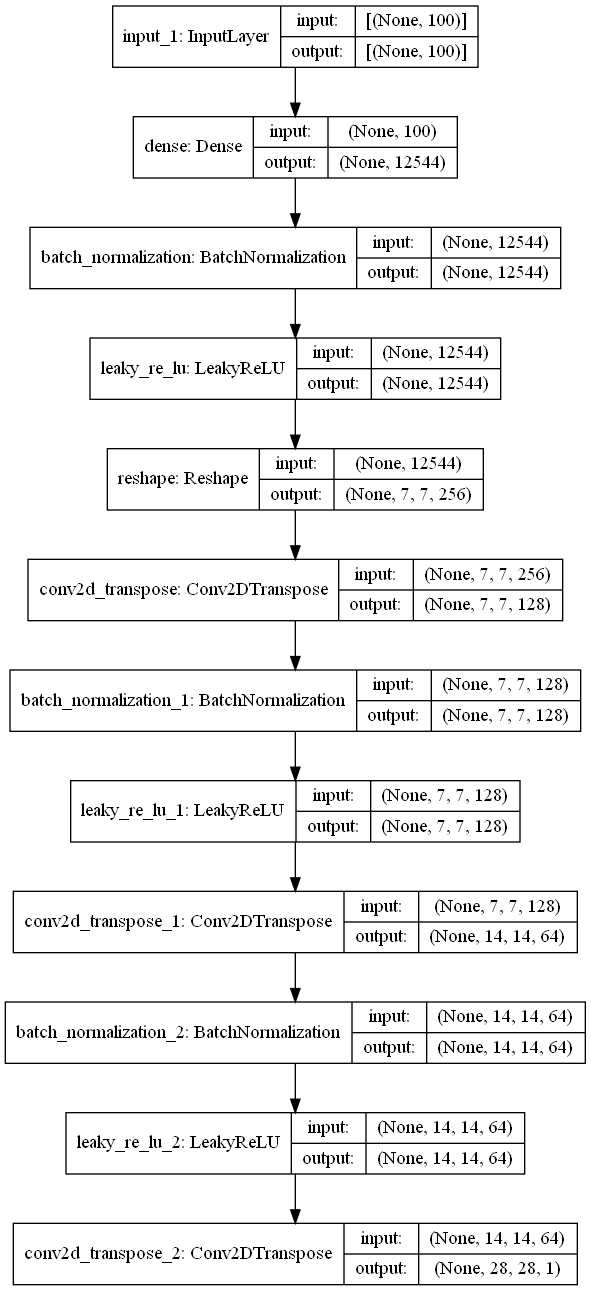
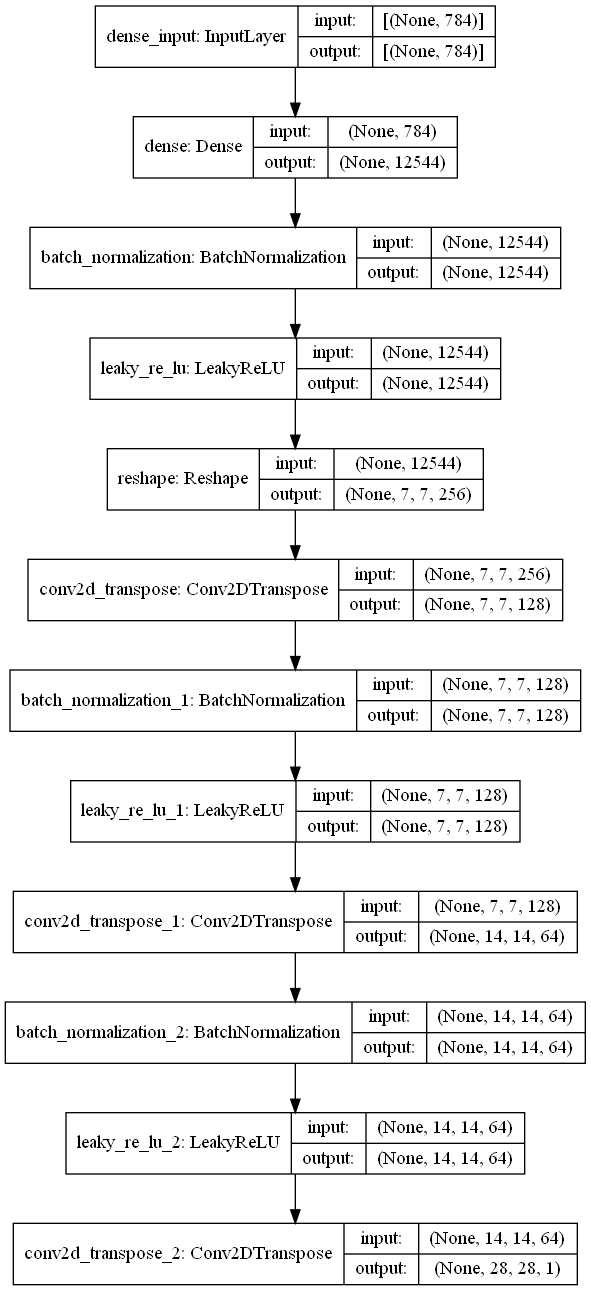
Updates loss function

Changed region(s): [[0.3046, 0.0, 0.8528, 0.062], [0.1523, 0.0, 0.2741, 0.062], [0.7005, 0.093, 0.731, 0.1239]]

diff --git a/RenyiGan-TensorFlow2/main.py b/RenyiGan-TensorFlow2/main.py
@@ -5,25 +5,35 @@ import matplotlib.pyplot as plt
 import time
 import data
 import loss
-from model import get_generator, get_discriminator
+from model import get_generator, get_discriminator, build_generator, build_discriminator
+
+
+
+# os.environ['CUDA_VISIBLE_DEVICES'] = '-1'
+
+# if tf.test.gpu_device_name():
+#     print('GPU found')
+# else:
+#     print("No GPU found")
 
 
 
 BUFFER_SIZE = 60000
-BATCH_SIZE = 100
+BATCH_SIZE = 1
 EPOCHS = 50
-
+alpha_g = 2
+alpha_d = 0.1
 #Change noise_dim to = 28*28 to use Himesh' gen/disc models
-noise_dim = 100
+noise_dim = 28*28
 num_examples_to_generate = 16
 seed = tf.random.normal([num_examples_to_generate, noise_dim])
 
 dataset = data.load_mnist(BUFFER_SIZE, BATCH_SIZE)
-generator = get_generator()
+generator = build_generator()
 tf.keras.utils.plot_model(generator, to_file="Generator.png", show_shapes=True)
-discriminator = get_discriminator()
-generator_optimizer = tf.keras.optimizers.Adam(learning_rate=0.0002, beta_1=0.5, beta_2=0.999, epsilon=1e-7)
-discriminator_optimizer = tf.keras.optimizers.Adam(learning_rate=0.0002, beta_1=0.5, beta_2=0.999, epsilon=1e-7)
+discriminator = build_discriminator()
+generator_optimizer = tf.keras.optimizers.Adam(learning_rate=0.0001, beta_1=0.5, beta_2=0.999, epsilon=1e-7)
+discriminator_optimizer = tf.keras.optimizers.Adam(learning_rate=0.0001, beta_1=0.5, beta_2=0.999, epsilon=1e-7)
 
 checkpoint_dir = './training_checkpoints'
 checkpoint_prefix = os.path.join(checkpoint_dir, "ckpt")
@@ -31,6 +41,9 @@ checkpoint = tf.train.Checkpoint(generator_optimizer=generator_optimizer,
                                  discriminator_optimizer=discriminator_optimizer,
                                  generator=generator,
                                  discriminator=discriminator)
+
+
+
 
 @tf.function
 def train_step(images):
@@ -42,14 +55,19 @@ def train_step(images):
         real_out = discriminator(images, training=True)
         fake_out = discriminator(generated_images, training=True)
 
-        gen_loss = loss.generator_loss_renyiL1(fake_out, alpha=0.5)
+        gen_loss = loss.generator_loss_original(fake_out)
         disc_loss = loss.discriminator_loss_original(real_out,fake_out)
+
+        #gen_loss = loss.generator_loss_renyiL1(fake_out, alpha_g)
+        #disc_loss = loss.discriminator_loss_renyi(real_out,fake_out, alpha_d)
         # this is printing all the red numbers and will show 'nan' if broken
-        tf.print(disc_loss, gen_loss)
     gen_gradients = gen_tape.gradient(gen_loss, generator.trainable_variables)
-    disc_graddients = disc_tape.gradient(disc_loss, discriminator.trainable_variables)
+    disc_gradients = disc_tape.gradient(disc_loss, discriminator.trainable_variables)
     generator_optimizer.apply_gradients(zip(gen_gradients, generator.trainable_variables))
-    discriminator_optimizer.apply_gradients(zip(disc_graddients, discriminator.trainable_variables))
+    discriminator_optimizer.apply_gradients(zip(disc_gradients, discriminator.trainable_variables))
+    tf.print(disc_loss, gen_loss, real_out, fake_out)
+    
+
 
 def train(dataset, epochs):
     for epoch in range(epochs):

diff --git a/RenyiGan-TensorFlow2/loss.py b/RenyiGan-TensorFlow2/loss.py
@@ -29,11 +29,23 @@ def generator_loss_renyiL1(fake_output, alpha):
     return gen_loss
 
 def discriminator_loss_renyi(real_output, fake_output, alpha):
-    f = (tf.math.pow(real_output, alpha) * \
-         tf.math.pow(fake_output, (1.0 - alpha)) + \
-        tf.math.pow((1.0 - real_output), alpha) * \
-        tf.math.pow((1.0 - fake_output), (1.0 - alpha))) / \
-        (tf.math.pow(real_output, alpha) +
-         tf.math.pow((1.0 - real_output), alpha))
-    loss = tf.math.reduce_mean(1.0 / (alpha - 1.0) * tf.math.log(f))
+
+
+    n1 = (tf.math.pow(real_output, alpha * tf.ones_like(real_output)))*(tf.math.pow(fake_output, 1.0 - alpha * tf.ones_like(real_output)))
+    n2 = (tf.math.pow(1-real_output, alpha * tf.ones_like(real_output)))*(tf.math.pow(1-fake_output, 1.0 - alpha * tf.ones_like(real_output)))
+    n = n1 + n2
+
+    d1 = tf.math.pow(real_output, alpha * tf.ones_like(real_output))
+    d2 = tf.math.pow(1-real_output, alpha * tf.ones_like(real_output))
+    d = d1 + d2
+
+    loss = tf.math.reduce_mean(((1/(alpha-1))*tf.math.log((n/(d) + 1e-8))))
+
+    # f = (tf.math.pow(real_output, alpha) * \
+    #      tf.math.pow(fake_output, (1.0 - alpha)) + \
+    #     tf.math.pow((1.0 - real_output), alpha) * \
+    #     tf.math.pow((1.0 - fake_output), (1.0 - alpha))) / \
+    #     (tf.math.pow(real_output, alpha) +
+    #      tf.math.pow((1.0 - real_output), alpha))
+    # loss = tf.math.reduce_mean(1.0 / (alpha - 1.0) * tf.math.log(f))
     return loss

diff --git a/RenyiGan-TensorFlow2/Testing.py b/RenyiGan-TensorFlow2/Testing.py
@@ -1,0 +1,34 @@
+import os
+import tensorflow as tf
+import matplotlib.pyplot as plt
+import time
+import data
+import loss
+from model import get_generator, get_discriminator, build_generator, build_discriminator
+
+os.environ["CUDA_VISIBLE_DEVICES"] = "-1"
+
+real_output = tf.constant([[1],[2],[3]], dtype=tf.float32)
+fake_output = tf.constant([[2],[4],[6]], dtype=tf.float32)
+
+alpha = 2
+
+n1 = (tf.math.pow(real_output, alpha * tf.ones_like(real_output)))*(tf.math.pow(fake_output, 1.0 - alpha * tf.ones_like(real_output)))
+n2 = (tf.math.pow(1-real_output, alpha * tf.ones_like(real_output)))*(tf.math.pow(1-fake_output, 1.0 - alpha * tf.ones_like(real_output)))
+n = n1 + n2
+
+d1 = tf.math.pow(real_output, alpha * tf.ones_like(real_output))
+d2 = tf.math.pow(1-real_output, alpha * tf.ones_like(real_output))
+d = d1 + d2
+
+f = tf.math.reduce_mean(((1/(alpha-1))*tf.math.log(n/d)))
+
+
+print(d1)
+print(d2)
+print(d)
+print(f)
+
+#tf.math.reduce_mean(tf.math.pow(real_output, alpha * tf.ones_like(fake_output)) ) 
+
+
